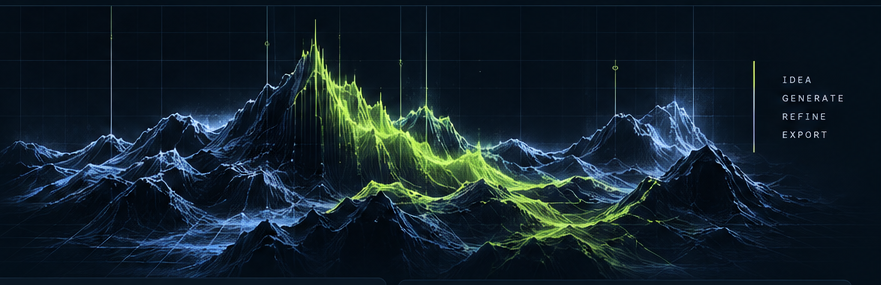
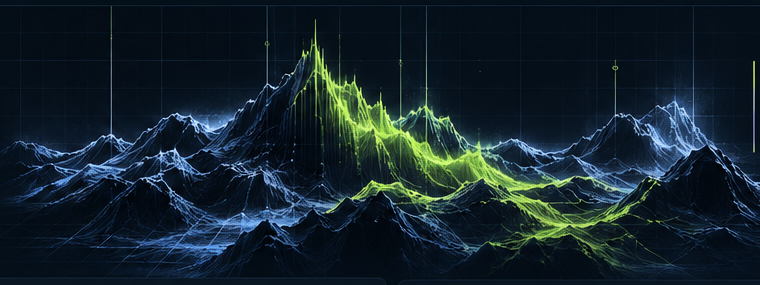
M12: public track page + share, CreateWidget MP3/Stems/Mood wiring, signal-lab hero re-crop

diff --git a/frontend/src/pages/Track.tsx b/frontend/src/pages/Track.tsx
@@ -1,0 +1,115 @@
+import { Link, useParams } from "react-router-dom";
+import { useQuery } from "@tanstack/react-query";
+import { api } from "../api";
+import ArtworkTile from "../components/ArtworkTile";
+import { Playable, usePlayer } from "../components/PlayerContext";
+import { toast } from "../components/Toast";
+import Waveform from "../components/Waveform";
+import { Avatar, fmtTime } from "../components/ui";
+
+interface TrackInfo {
+  asset_id: string;
+  title: string;
+  duration_seconds: number | null;
+  created_at: string | null;
+  like_count: number;
+  creator: string;
+  url: string;
+}
+
+async function copyLink(url: string) {
+  try {
+    await navigator.clipboard.writeText(url);
+    toast("Link copied to clipboard");
+  } catch {
+    const el = document.createElement("textarea");
+    el.value = url;
+    document.body.appendChild(el);
+    el.select();
+    document.execCommand("copy");
+    el.remove();
+    toast("Link copied to clipboard");
+  }
+}
+
+export default function TrackPage() {
+  const { assetId } = useParams();
+  const player = usePlayer();
+  const track = useQuery({
+    queryKey: ["public-track", assetId],
+    queryFn: () => api.get<TrackInfo>(`/api/v1/public/tracks/${assetId}`),
+    enabled: !!assetId,
+    retry: false,
+  });
+
+  if (track.isLoading) {
+    return (
+      <main className="page">
+        <h1>Track</h1>
+        <p style={{ color: "var(--muted)" }}>Loading…</p>
+      </main>
+    );
+  }
+  if (!track.data) {
+    return (
+      <main className="page">
+        <h1>Track not found</h1>
+        <p style={{ color: "var(--muted)" }}>This track is private, expired, or no longer exists.</p>
+        <Link className="btn btn-primary" to="/explore">Browse Explore →</Link>
+      </main>
+    );
+  }
+
+  const t = track.data;
+  const playable: Playable = { asset_id: t.asset_id, title: t.title, url: t.url, duration: t.duration_seconds, subtitle: t.creator };
+  const isLive = player.current?.asset_id === t.asset_id;
+  const playing = isLive && player.playing;
+  const position = isLive ? player.position : 0;
+  const progress = isLive ? player.progress : 0;
+  const duration = isLive ? player.duration : t.duration_seconds || 0;
+  const token = t.url.split("token=")[1];
+
+  return (
+    <main className="page">
+      <div className="hero-strip">
+        <div>
+          <h1>{t.title}</h1>
+          <div className="sub">
+            <Avatar name={t.creator} sm /> {t.creator} · ♥ {t.like_count}
+            {t.created_at ? ` · ${t.created_at.slice(0, 10)}` : ""}
+          </div>
+        </div>
+        <div className="strip-controls">
+          <button className="btn" onClick={() => copyLink(`${window.location.origin}/track/${t.asset_id}`)}>Share</button>
+          <a className="btn" href={t.url} download>⇊ WAV</a>
+        </div>
+      </div>
+      <div className="card" style={{ marginTop: 20, display: "flex", gap: 20, alignItems: "center", flexWrap: "wrap" }}>
+        <ArtworkTile seed={t.asset_id} size={180} onPlay={() => (isLive ? player.toggle() : player.play(playable))} />
+        <div style={{ flex: 1, minWidth: 260 }}>
+          <div style={{ display: "flex", gap: 12, alignItems: "center", marginBottom: 10 }}>
+            <button className={`np-play${playing ? " on" : ""}`} onClick={() => (isLive ? player.toggle() : player.play(playable))} aria-label={playing ? "Pause" : "Play"}>
+              {playing ? "❚❚" : "▶"}
+            </button>
+            <span className="mono" style={{ color: "var(--muted)", fontSize: 12 }}>
+              {fmtTime(position)} / {fmtTime(duration)}
+            </span>
+          </div>
+          <Waveform
+            assetId={t.asset_id}
+            token={token}
+            progress={progress}
+            onSeek={(r) => {
+              if (!isLive) player.play(playable);
+              setTimeout(() => player.seek(r), 60);
+            }}
+            height={56}
+          />
+        </div>
+      </div>
+      <p style={{ color: "var(--muted)", fontSize: 12, marginTop: 14 }}>
+        <Link className="link" to="/explore">← Back to Explore</Link>
+      </p>
+    </main>
+  );
+}

diff --git a/frontend/src/components/CreateWidget.tsx b/frontend/src/components/CreateWidget.tsx
@@ -4,6 +4,7 @@ import { api } from "../api";
 import ArtworkTile from "./ArtworkTile";
 import Waveform from "./Waveform";
 import { usePlayer } from "./PlayerContext";
+import { exportArtifact } from "./social";
 import { fmtTime } from "./ui";
 
 interface JobAccepted {
@@ -38,6 +39,8 @@ const DURATIONS = [
   { value: 240, label: "~4 minutes" },
 ];
 
+const MOODS = ["Hopeful", "Melancholic", "Energetic", "Calm", "Dreamy", "Dark"];
+
 export default function CreateWidget({
   variant = "card",
   showStyle = false,
@@ -49,6 +52,7 @@ export default function CreateWidget({
   const [desc, setDesc] = useState("A dreamy indie pop song about chasing a brighter tomorrow");
   const [duration, setDuration] = useState(60);
   const [instrumental, setInstrumental] = useState(false);
+  const [mood, setMood] = useState("Hopeful");
   const [loraId, setLoraId] = useState("");
   const [jobId, setJobId] = useState<string | null>(null);
   const [error, setError] = useState("");
@@ -65,7 +69,7 @@ export default function CreateWidget({
       api.post<JobAccepted>("/api/v1/jobs", {
         operation: "music.generate",
         model_id: "ace-step-1.5",
-        music_description: desc,
+        music_description: mood ? `${desc}, ${mood.toLowerCase()} mood` : desc,
         duration_seconds: duration,
         instrumental,
         ...(loraId ? { lora_id: loraId } : {}),
@@ -148,9 +152,11 @@ export default function CreateWidget({
         <div className="field ctrl">
           <span className="ctrl-icon" aria-hidden>☺</span>
           <div className="field">
-            <label title="Mood presets coming soon">Mood</label>
-            <select disabled title="Coming soon">
-              <option>Hopeful</option>
+            <label>Mood</label>
+            <select value={mood} onChange={(e) => setMood(e.target.value)}>
+              {MOODS.map((m) => (
+                <option key={m} value={m}>{m}</option>
+              ))}
             </select>
           </div>
         </div>
@@ -238,8 +244,8 @@ export default function CreateWidget({
           </div>
           <div className="actions">
             <a className="btn" href={resultUrl} download>↓ WAV</a>
-            <button className="btn" disabled title="Coming soon">MP3</button>
-            <button className="btn" disabled title="Coming soon">Stems</button>
+            <button className="btn" onClick={() => exportArtifact(result.asset_id, "mp3")}>♫ MP3</button>
+            <button className="btn" onClick={() => exportArtifact(result.asset_id, "stems")}>≋ Stems</button>
           </div>
         </div>
       )}

diff --git a/frontend/src/components/NowPlaying.tsx b/frontend/src/components/NowPlaying.tsx
@@ -2,6 +2,7 @@ import ArtworkTile from "./ArtworkTile";
 import Waveform from "./Waveform";
 import { usePlayer } from "./PlayerContext";
 import { exportArtifact } from "./social";
+import { toast } from "./Toast";
 import { PublicTrack, toPlayable } from "./tracks";
 import { fmtTime } from "./ui";
 
@@ -40,7 +41,18 @@ export default function NowPlaying({ tracks, big = false }: { tracks: PublicTrac
           </div>
           <div className="np-actions">
             <span className="np-like" title="Favorites">♥ {likeCount ?? 0}</span>
-            <button className="btn btn-ghost" disabled title="Coming soon">Share</button>
+            <button
+              className="btn btn-ghost"
+              onClick={() => {
+                const link = `${window.location.origin}/track/${track.asset_id}`;
+                navigator.clipboard
+                  ?.writeText(link)
+                  .then(() => toast("Link copied to clipboard"))
+                  .catch(() => toast(link));
+              }}
+            >
+              Share
+            </button>
           </div>
         </div>
         <div className="np-player">

diff --git a/frontend/src/App.tsx b/frontend/src/App.tsx
@@ -14,6 +14,7 @@ import ExplorePage from "./pages/Explore";
 import PricingPage from "./pages/Pricing";
 import SettingsPage from "./pages/Settings";
 import TrainingPage from "./pages/Training";
+import TrackPage from "./pages/Track";
 
 const TEMPLATES = ["open-canvas", "analog-soul", "neon-studio", "signal-lab"];
 
@@ -125,6 +126,7 @@ export default function App() {
         <Route path="/pricing" element={<PricingPage />} />
         <Route path="/settings" element={<SettingsPage />} />
         <Route path="/training" element={<TrainingPage />} />
+        <Route path="/track/:assetId" element={<TrackPage />} />
       </Routes>
       <PlayerBar />
       <Toaster />

diff --git a/app/routes/features.py b/app/routes/features.py
@@ -299,3 +299,42 @@ def revoke_api_key(key_id: str, request: Request, owner_id: str = Depends(owner_
             key.revoked_at = utcnow()
             session.commit()
         return JSONResponse(_key_dict(key))
+
+
+@router.get("/public/tracks/{asset_id}")
+def public_track(asset_id: str, request: Request) -> JSONResponse:
+    """Single shared track for the public /track page."""
+    from datetime import timedelta
+
+    from ..tokens import make_token
+
+    settings = request.app.state.settings
+    now = utcnow()
+    with request.app.state.db.session() as session:
+        asset = session.get(Asset, asset_id)
+        if (
+            asset is None
+            or asset.deleted_at is not None
+            or not asset.shared
+            or asset.role != "mix_wav"
+            or (asset.expires_at is not None and as_utc(asset.expires_at) <= now)
+        ):
+            raise ApiError(404, "NOT_FOUND", "Track not found.")
+        from .jobs import _creator_names, _like_counts
+
+        creator = _creator_names(session, {asset.owner_id}).get(asset.owner_id, "community")
+        likes = _like_counts(session, [asset.id]).get(asset.id, 0)
+        token = make_token(settings.secret_key, asset.id, now + timedelta(hours=24))
+        owner_job = session.get(Job, asset.job_id)
+    return JSONResponse(
+        {
+            "asset_id": asset.id,
+            "title": asset.title or "Untitled",
+            "duration_seconds": asset.duration_seconds,
+            "created_at": asset.created_at.isoformat() if asset.created_at else None,
+            "like_count": likes,
+            "creator": creator,
+            "operation": owner_job.operation if owner_job else None,
+            "url": f"/api/v1/artifacts/{asset.id}/content?token={token}",
+        }
+    )

diff --git a/tests/test_m9_features.py b/tests/test_m9_features.py
@@ -145,3 +145,18 @@ def test_llm_routes_task_locked(client) -> None:
         assert response.json()["style_prompt"] == "[Verse]\nfake lyrics line"
     finally:
         del client.app.state.llm
+
+
+def test_public_track_detail(client) -> None:
+    owner = _seed_owner(client, "m12-trk@example.com", "m12track")
+    asset_id = _seed_asset(client, owner, "Shared Anthem")
+    response = client.get(f"/api/v1/public/tracks/{asset_id}")
+    assert response.status_code == 200
+    body = response.json()
+    assert body["title"] == "Shared Anthem"
+    assert body["creator"] == "m12track"
+    assert body["url"].startswith(f"/api/v1/artifacts/{asset_id}/content?token=")
+
+    private = _seed_asset(client, owner, "Private Cut", shared=False)
+    assert client.get(f"/api/v1/public/tracks/{private}").status_code == 404
+    assert client.get("/api/v1/public/tracks/nope").status_code == 404
